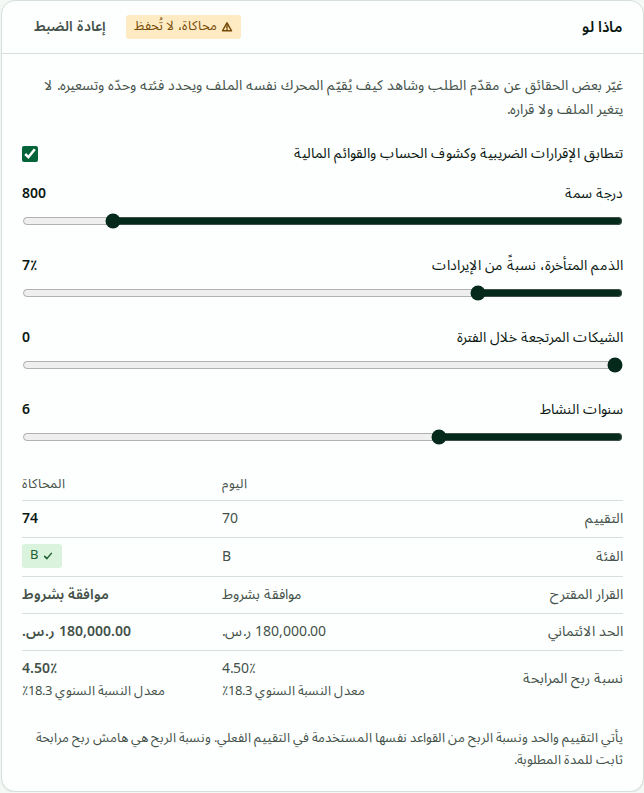
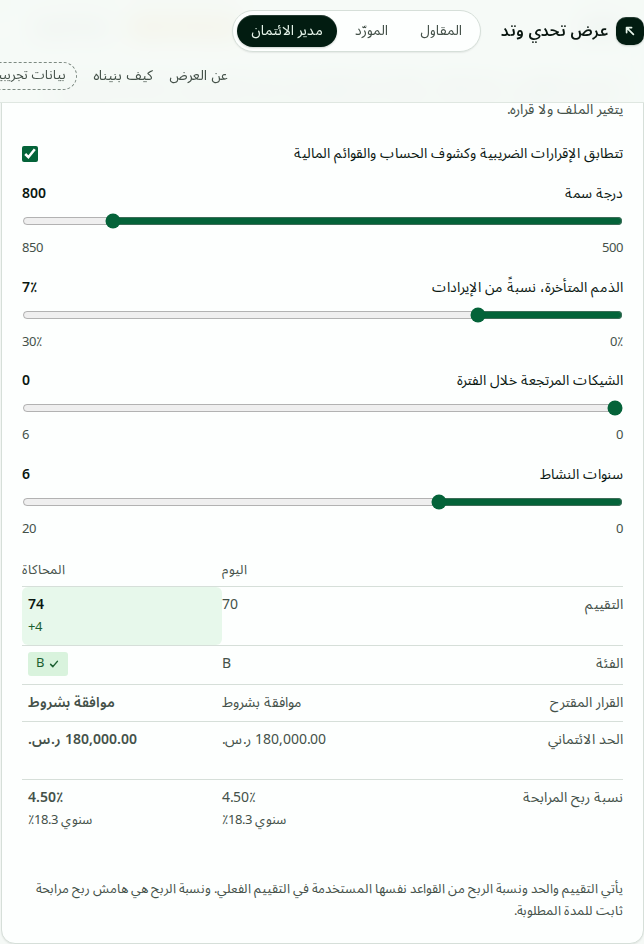
feat(credit): what-if shows what moved (Layla review)
Signed deltas under score, cap and profit rate, and a tint on every changed
Simulated cell (positive when better, caution when worse); the delta line is
always reserved, so nothing shifts. Decisions in sentence case. Slider end
labels, action-green tracks, and a shorter Arabic APR line.

diff --git a/src/components/credit/manager/what-if-panel.tsx b/src/components/credit/manager/what-if-panel.tsx
@@ -6,11 +6,29 @@ import type { CreditProfile } from "@/domain/credit/types";
 import { sar } from "@/domain/money";
 import { fill } from "@/i18n/core";
 import { credit } from "@/i18n/credit";
-import { useFormat, useMessages } from "@/i18n/locale";
+import { useFormat, useLocale, useMessages } from "@/i18n/locale";
 import { Badge, Button, Panel, type Tone } from "@/components/ui";
 import { track, type WhatIfLever } from "@/lib/analytics";
 
 const BAND_TONE: Record<WhatIfOutcome["band"], Tone> = { A: "positive", B: "positive", C: "caution", D: "negative" };
+const BAND_RANK: Record<WhatIfOutcome["band"], number> = { A: 3, B: 2, C: 1, D: 0 };
+const DECISION_RANK: Record<WhatIfOutcome["decision"], number> = { approve: 3, approve_with_conditions: 2, refer: 1, decline: 0 };
+
+/** Better, worse or unchanged: drives the cell tint and the delta colour. */
+type Move = 1 | -1 | 0;
+const move = (now: number, sim: number, higherIsBetter = true): Move => (sim === now ? 0 : (sim > now) === higherIsBetter ? 1 : -1);
+const TINT: Record<Move, string> = { 1: "bg-positive-soft/60", [-1]: "bg-caution-soft/60", 0: "" };
+const DELTA: Record<Move, string> = { 1: "text-positive", [-1]: "text-negative", 0: "" };
+/**
+ * "+4", "−SAR 60,000.00", "+1.20 pt": an explicit sign (true minus). In Arabic the sign and
+ * number are isolated left to right so the sign stays in front of the digits, and the
+ * currency or unit keeps its natural place.
+ */
+const signed = (diff: number, body: string, rtl: boolean) => {
+  const sign = diff > 0 ? "+" : "\u2212";
+  const clean = body.replace(/[\u200e\u200f\u061c]/g, "");
+  return rtl ? clean.replace(/\d[\d,.]*/, (n) => `\u2066${sign}${n}\u2069`) : `${sign}${clean}`;
+};
 
 /**
  * What-if: move a few facts about the applicant and watch score, band, limit
@@ -22,6 +40,7 @@ export function WhatIfPanel({ caseId, profile, asOf }: { caseId: string; profile
   const all = useMessages(credit);
   const m = all.whatIf;
   const f = useFormat();
+  const rtl = useLocale() === "ar";
   const today = useMemo(() => leversOf(profile), [profile]);
   const [w, setW] = useState<WhatIfLevers>(today);
   const { current, simulated } = useMemo(() => simulate(profile, asOf, w), [profile, asOf, w]);
@@ -43,13 +62,25 @@ export function WhatIfPanel({ caseId, profile, asOf }: { caseId: string; profile
         <span className="block whitespace-normal text-xs font-normal">{fill(m.aprValue, { apr: f.percent(o.apr ?? 0, 1) })}</span>
       </>
     );
-  const rows: { label: string; now: ReactNode; sim: ReactNode; moved: boolean }[] = [
-    { label: m.score, now: f.number(current.score), sim: f.number(simulated.score), moved: current.score !== simulated.score },
-    { label: m.band, now: current.band, sim: simulated.band, moved: current.band !== simulated.band },
-    { label: m.decision, now: all.memo.decision[current.decision], sim: all.memo.decision[simulated.decision], moved: current.decision !== simulated.decision },
-    { label: m.cap, now: f.money(sar(current.capSar)), sim: f.money(sar(simulated.capSar)), moved: current.capSar !== simulated.capSar },
-    { label: m.rate, now: rate(current), sim: rate(simulated), moved: current.profitRate !== simulated.profitRate },
+  const scoreDiff = simulated.score - current.score;
+  const capDiff = simulated.capSar - current.capSar;
+  const rateDiff = current.profitRate !== null && simulated.profitRate !== null ? simulated.profitRate - current.profitRate : 0;
+  const rows: { key: string; label: string; now: ReactNode; sim: ReactNode; delta?: string; m: Move }[] = [
+    { key: "score", label: m.score, now: f.number(current.score), sim: f.number(simulated.score), delta: scoreDiff ? signed(scoreDiff, f.number(Math.abs(scoreDiff)), rtl) : undefined, m: move(current.score, simulated.score) },
+    { key: "band", label: m.band, now: current.band, sim: <Badge tone={BAND_TONE[simulated.band]}>{simulated.band}</Badge>, m: move(BAND_RANK[current.band], BAND_RANK[simulated.band]) },
+    { key: "decision", label: m.decision, now: m.outcome[current.decision], sim: m.outcome[simulated.decision], m: move(DECISION_RANK[current.decision], DECISION_RANK[simulated.decision]) },
+    { key: "cap", label: m.cap, now: f.money(sar(current.capSar)), sim: f.money(sar(simulated.capSar)), delta: capDiff ? signed(capDiff, f.money(sar(Math.abs(capDiff))), rtl) : undefined, m: move(current.capSar, simulated.capSar) },
+    {
+      key: "rate",
+      label: m.rate,
+      now: rate(current),
+      sim: rate(simulated),
+      delta: rateDiff ? signed(rateDiff, fill(m.points, { n: (Math.abs(rateDiff) * 100).toFixed(2) }), rtl) : undefined,
+      // A lower profit rate is better for the contractor; losing the facility is worse.
+      m: current.profitRate === simulated.profitRate ? 0 : simulated.profitRate === null ? -1 : current.profitRate === null ? 1 : move(current.profitRate, simulated.profitRate, false),
+    },
   ];
+  const withDelta = new Set(["score", "cap", "rate"]);
 
   return (
     <div data-testid="credit-what-if">
@@ -85,10 +116,10 @@ export function WhatIfPanel({ caseId, profile, asOf }: { caseId: string; profile
                 data-testid="credit-what-if-vat"
               />
             </label>
-            <Slider id="simah" onCommit={() => committed("simah_score")} label={m.simah} value={w.simahScore} display={f.number(w.simahScore)} range={LEVER_RANGE.simahScore} onChange={(v) => set({ simahScore: v })} />
-            <Slider id="overdue" onCommit={() => committed("overdue_share")} label={m.overdue} value={w.overdueShare} display={f.percent(w.overdueShare)} range={LEVER_RANGE.overdueShare} onChange={(v) => set({ overdueShare: v })} />
-            <Slider id="cheques" onCommit={() => committed("returned_cheques")} label={m.cheques} value={w.returnedCheques} display={f.number(w.returnedCheques)} range={LEVER_RANGE.returnedCheques} onChange={(v) => set({ returnedCheques: v })} />
-            <Slider id="years" onCommit={() => committed("years_trading")} label={m.years} value={w.yearsTrading} display={f.number(w.yearsTrading)} range={LEVER_RANGE.yearsTrading} onChange={(v) => set({ yearsTrading: v })} />
+            <Slider id="simah" format={(v) => f.number(v)} onCommit={() => committed("simah_score")} label={m.simah} value={w.simahScore} display={f.number(w.simahScore)} range={LEVER_RANGE.simahScore} onChange={(v) => set({ simahScore: v })} />
+            <Slider id="overdue" format={(v) => f.percent(v)} onCommit={() => committed("overdue_share")} label={m.overdue} value={w.overdueShare} display={f.percent(w.overdueShare)} range={LEVER_RANGE.overdueShare} onChange={(v) => set({ overdueShare: v })} />
+            <Slider id="cheques" format={(v) => f.number(v)} onCommit={() => committed("returned_cheques")} label={m.cheques} value={w.returnedCheques} display={f.number(w.returnedCheques)} range={LEVER_RANGE.returnedCheques} onChange={(v) => set({ returnedCheques: v })} />
+            <Slider id="years" format={(v) => f.number(v)} onCommit={() => committed("years_trading")} label={m.years} value={w.yearsTrading} display={f.number(w.yearsTrading)} range={LEVER_RANGE.yearsTrading} onChange={(v) => set({ yearsTrading: v })} />
           </fieldset>
 
           <table className="w-full table-fixed text-sm" data-testid="credit-what-if-result">
@@ -102,11 +133,21 @@ export function WhatIfPanel({ caseId, profile, asOf }: { caseId: string; profile
             </thead>
             <tbody aria-live="polite">
               {rows.map((r) => (
-                <tr key={r.label} className="border-t border-line">
+                <tr key={r.key} className="border-t border-line align-top">
                   <th scope="row" className="py-1.5 text-start font-normal text-ink-muted">{r.label}</th>
                   <td className="whitespace-nowrap py-1.5 text-end text-xs tabular-nums text-ink-muted sm:text-sm">{r.now}</td>
-                  <td className={`whitespace-nowrap py-1.5 text-end text-xs font-semibold tabular-nums sm:text-sm ${r.moved ? "text-ink" : "text-ink-muted"}`}>
-                    {r.label === m.band ? <Badge tone={BAND_TONE[simulated.band]}>{r.sim}</Badge> : r.sim}
+                  <td
+                    className={`whitespace-nowrap rounded-md px-1.5 py-1.5 text-end text-xs font-semibold tabular-nums transition-colors motion-reduce:transition-none sm:text-sm ${r.m ? "text-ink" : "text-ink-muted"} ${TINT[r.m]}`}
+                    data-testid={`credit-what-if-sim-${r.key}`}
+                    data-move={r.m === 1 ? "better" : r.m === -1 ? "worse" : "same"}
+                  >
+                    <span className="block" data-testid={`credit-what-if-value-${r.key}`}>{r.sim}</span>
+                    {/* The delta line is always reserved, so a change never shifts the layout. */}
+                    {withDelta.has(r.key) && (
+                      <span className={`block text-xs font-medium ${DELTA[r.m]}`} data-testid={`credit-what-if-delta-${r.key}`}>
+                        {r.delta ?? "\u00a0"}
+                      </span>
+                    )}
                   </td>
                 </tr>
               ))}
@@ -119,7 +160,7 @@ export function WhatIfPanel({ caseId, profile, asOf }: { caseId: string; profile
   );
 }
 
-function Slider({ id, label, value, display, range, onChange, onCommit }: { id: string; label: string; value: number; display: string; range: { min: number; max: number; step: number }; onChange: (v: number) => void; onCommit: () => void }) {
+function Slider({ id, label, value, display, range, format, onChange, onCommit }: { id: string; label: string; value: number; display: string; range: { min: number; max: number; step: number }; format: (v: number) => string; onChange: (v: number) => void; onCommit: () => void }) {
   const inputId = `what-if-${id}`;
   return (
     <div className="space-y-1">
@@ -143,9 +184,13 @@ function Slider({ id, label, value, display, range, onChange, onCommit }: { id: 
         onKeyUp={(e) => {
           if (["ArrowLeft", "ArrowRight", "ArrowUp", "ArrowDown", "Home", "End", "PageUp", "PageDown"].includes(e.key)) onCommit();
         }}
-        className="w-full accent-[var(--color-pine)]"
+        className="w-full accent-action"
         data-testid={`credit-what-if-${id}`}
       />
+      <div className="flex justify-between text-xs tabular-nums text-ink-muted" aria-hidden="true">
+        <span>{format(range.min)}</span>
+        <span>{format(range.max)}</span>
+      </div>
     </div>
   );
 }

diff --git a/e2e/credit-what-if.spec.ts b/e2e/credit-what-if.spec.ts
@@ -18,9 +18,11 @@ for (const locale of ["en", "ar"] as const) {
     await expect(panel).toBeVisible();
     await expect(panel).toContainText(locale === "ar" ? "محاكاة، لا تُحفظ" : "Simulation, not saved");
 
-    // Today's score in the simulation is the scorecard's score.
+    // Today's score in the simulation is the scorecard's score; nothing is tinted yet.
     const today = (await resultCell(page, 0, 1).innerText()).trim();
-    await expect(resultCell(page, 0, 2)).toHaveText(today);
+    const simScore = tid(page, "credit-what-if-value-score");
+    await expect(simScore).toHaveText(today);
+    await expect(tid(page, "credit-what-if-sim-score")).toHaveAttribute("data-move", "same");
     await expect(tid(page, "credit-what-if-reset")).toBeDisabled();
 
     // Keyboard: SIMAH score to its minimum. No layout shift while the result changes.
@@ -29,8 +31,12 @@ for (const locale of ["en", "ar"] as const) {
     const before = await box();
     await tid(page, "credit-what-if-simah").focus();
     await page.keyboard.press("Home");
-    await expect(resultCell(page, 0, 2)).not.toHaveText(today);
-    expect(Number((await resultCell(page, 0, 2).innerText()).trim())).toBeLessThan(Number(today));
+    await expect(simScore).not.toHaveText(today);
+    const lower = Number((await simScore.innerText()).trim());
+    expect(lower).toBeLessThan(Number(today));
+    // What moved is visible: a signed delta and a "worse" tint on the changed cell.
+    await expect(tid(page, "credit-what-if-delta-score")).toContainText(`\u2212${Number(today) - lower}`);
+    await expect(tid(page, "credit-what-if-sim-score")).toHaveAttribute("data-move", "worse");
     const after = await box();
     expect(after.height).toBe(before.height);
     expect(after.top).toBe(before.top);
@@ -41,13 +47,15 @@ for (const locale of ["en", "ar"] as const) {
     // Fewer years trading than policy allows: the simulated decision turns to decline.
     await tid(page, "credit-what-if-years").focus();
     await page.keyboard.press("Home");
-    await expect(resultCell(page, 2, 2)).toHaveText(locale === "ar" ? "رفض" : "decline");
+    await expect(tid(page, "credit-what-if-value-decision")).toHaveText(locale === "ar" ? "رفض" : "Decline");
+    await expect(tid(page, "credit-what-if-sim-decision")).toHaveAttribute("data-move", "worse");
 
     const { violations } = await new AxeBuilder({ page }).withTags(["wcag2a", "wcag2aa", "wcag21a", "wcag21aa", "wcag22aa"]).exclude("[hidden]").analyze();
     expect(violations.filter((v) => v.impact === "serious" || v.impact === "critical").map((v) => `${v.id}: ${v.nodes[0]?.target}`)).toEqual([]);
 
     await tid(page, "credit-what-if-reset").click();
-    await expect(resultCell(page, 0, 2)).toHaveText(today);
+    await expect(simScore).toHaveText(today);
+    await expect(tid(page, "credit-what-if-sim-score")).toHaveAttribute("data-move", "same");
     await expect(tid(page, "credit-what-if-reset")).toBeDisabled();
   });
 }

diff --git a/src/i18n/credit.ts b/src/i18n/credit.ts
@@ -560,6 +560,8 @@ export const credit = defineMessages(
       rate: "Murabaha profit rate",
       rateValue: "{rate} ({apr} APR)",
       aprValue: "{apr} APR",
+      points: "{n} pt",
+      outcome: { approve: "Approve", approve_with_conditions: "Approve with conditions", refer: "Request more information", decline: "Decline" },
       noFacility: "No facility",
       footnote: "The score, limit and profit rate come from the same rules as the real assessment. The profit rate is the flat Murabaha markup for the requested term.",
     },
@@ -1129,7 +1131,9 @@ export const credit = defineMessages(
       cap: "الحد الائتماني",
       rate: "نسبة ربح المرابحة",
       rateValue: "{rate} (معدل النسبة السنوي {apr})",
-      aprValue: "معدل النسبة السنوي {apr}",
+      aprValue: "سنوي {apr}",
+      points: "{n} نقطة",
+      outcome: { approve: "موافقة", approve_with_conditions: "موافقة بشروط", refer: "طلب معلومات إضافية", decline: "رفض" },
       noFacility: "لا يوجد تسهيل",
       footnote: "يأتي التقييم والحد ونسبة الربح من القواعد نفسها المستخدمة في التقييم الفعلي. ونسبة الربح هي هامش ربح مرابحة ثابت للمدة المطلوبة.",
     },
